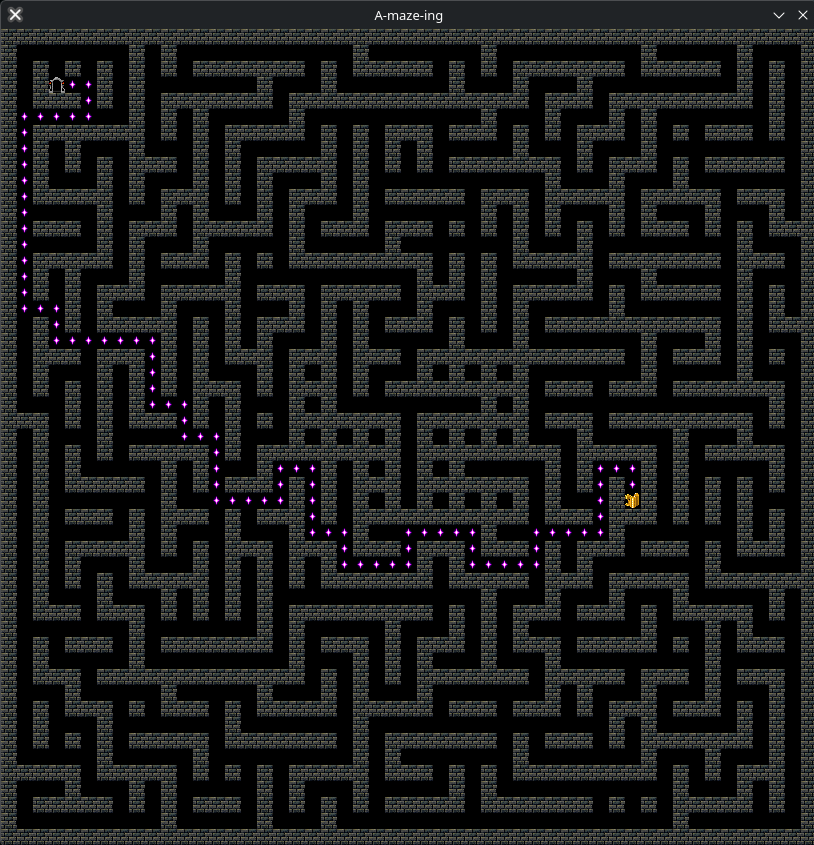
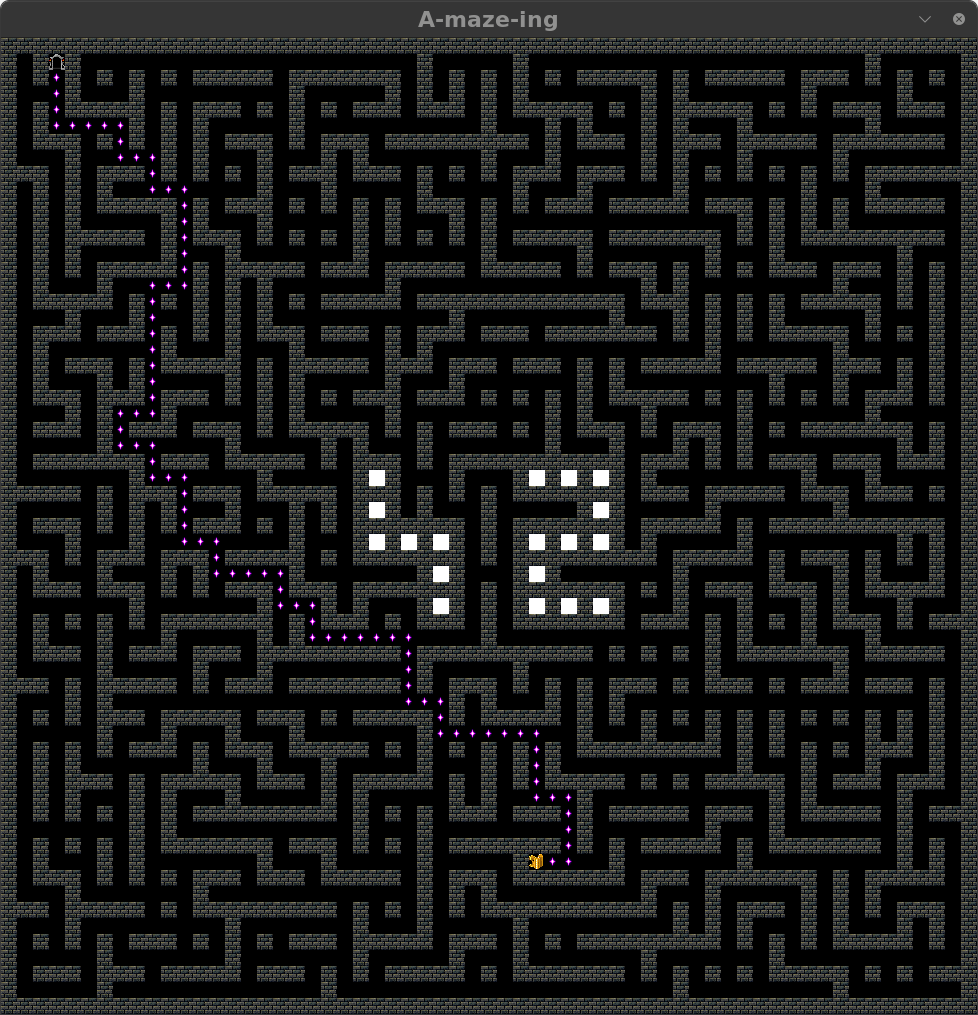
📝 Updated README.md

diff --git a/README.md b/README.md
@@ -9,14 +9,22 @@
 a_maze_ing is a maze generator project for the 42 core curriculum. It is a python written program that allows you to generate a maze and its shortest path solution. The maze is visualized with the MiniLibX library. The maze generator will allow you to set entry and exit points, as well as whether you would like a perfect or imperfect maze generated. You can also regenerate or reproduce the same maze by the use of a seed.
 
 ## Goals of this project
+**Main goals** <br>
+[✔] Create a maze generator from a config file <br>
+[✔] Generate a perfect maze  <br>
+[✔] Output the maze as a hexadecimal representation  <br>
+[✔] Create a visual representation of the maze and its shortest path solution  <br>
+[✔] Ensure it is appropriately packaged for reusing later <br>
 
-[ ] Create a maze generator from a config file  
-[ ] Generate a perfect maze  
-[ ] Output the maze as a hexadecimal representation  
-[ ] Create a visual representation of the maze and its shortest path solution  
-[ ] Ensure it is appropriately packaged for reusing later  
+**Extras** <br>
+[✔] Visualise the maze with mlx <br>
+[✔] Change the whole theme of the maze and not just the colour <br>
+[✔] Regenerate the same maze with a single key press <br>
+[✔] Generate a new maze with a single key press <br>
+[✔] Created a separate, movable intrsuctions window for interacting with the maze generator <br>
 
 # Instructions
+
 
 # Resources
 
@@ -53,24 +61,61 @@ PERFECT=True
 #SEED=42
 ```
 
-## Maze generation Algorithm
+| **Key** | **Description** |
+| ----------- | ----------- |
+| WIDTH | The width that the maze needs to be |
+| HEIGHT | The height that the maze needs to be |
+| ENTRY | The entry coordinates for the maze |
+| EXIT | The exit coordinates for the maze |
+| OUTPUT_FILE | The name of the file for the generated maze information |
+| PERFECT | A boolean for if the maze should be a perfect maze |
+| SEED | A seed number if you want to regenerate the maze with a specific seed |
 
-### Why we chose it
+## Maze generation Algorithm
+**Depth-First Search (DFS)** <br>
+DFS is a graph/tree traversal algorithm. Starting from a node, it goes as deep as possible down one path before backtracking. 
+
+**Why we chose it** <br>
+- It is good for perfect mazes because of it's depth first approach
+- Every time it wants to move to another cell it randomises which unvisited cell it will visit next. This makes it reliably random
+- It is simple to understand and implement
+- It has fewer and longer dead ends making it more interesting to solve
 
 ## Reusable code
 
 ## Team and project management
+**odschreu** <br>
+- Maze Generator
+- Maze Solver
+- Output file from the maze generator and solver
+- Packaging of the maze generator as per the subject requirements
+- Seeking and resolving edge cases
+- Connecting the maze generator to the visualisation
+- Error handling for the maze generator and parsing
+- Contributing to the README.md
+- Ensuring it is mypy and flake8 complient
 
-### Team members
-
-1. odschreu
-2. lelouren
+**lelouren** <br>
+- Parsing
+- Mlx visualisation of the maze
+- Error handling for visualisation and parsing
+- Creating the Makefile and requirements.txt
+- Creating foundations for the README.md
 
 ### Project planning
+We met once per week to discuss our progress and what needed to be done for the coming week
 
 ### What worked well
+- Meeting at least once a week
+- One Github repository where we are both collaborators
+- Splitting of the tasks according to generation or visualisation
+- A simple main file that delegates the different sections of the project. Each section then has its own folder with files and error handling
 
 ### What can be improved
+- Do the check parameters before returning the dict to the main
+- Create a class instead of a dict because fetching information from a dict has a high risk of failing if there is a key mismatch
+- Have one class with all the necessary information instead of a class that gets absorbed by another class, that gets absorbed again.
+- Reading from only the output file instead of the config file as well
 
 ### Tools
 
